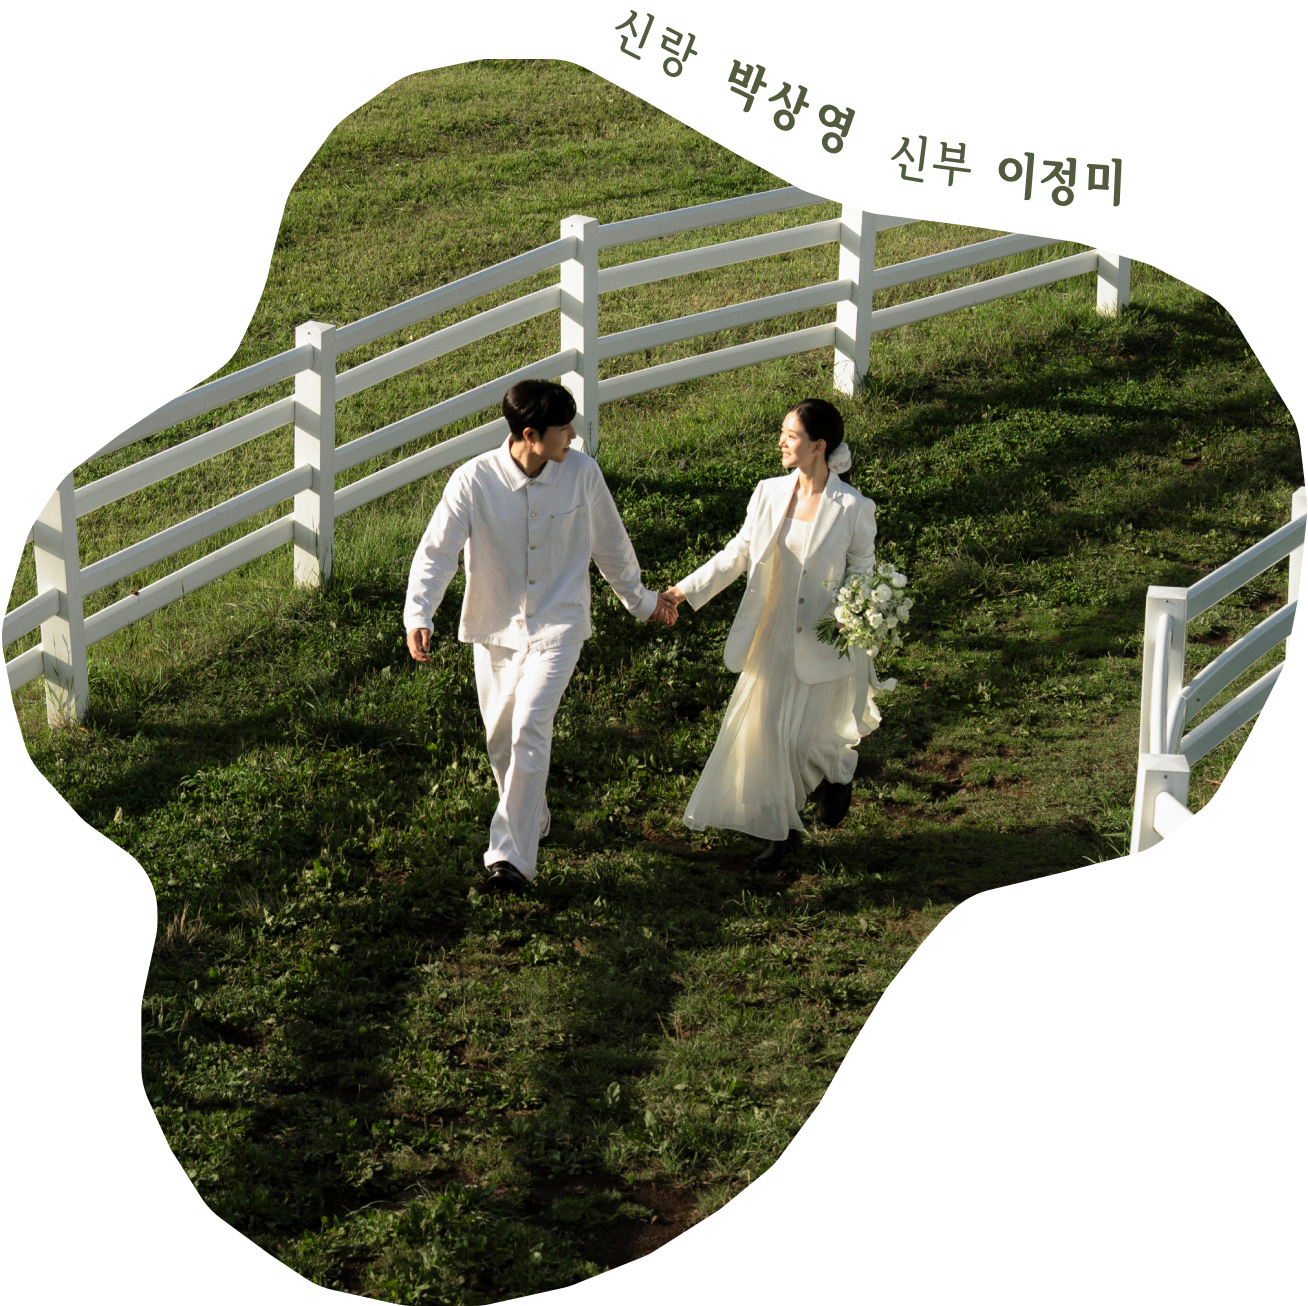
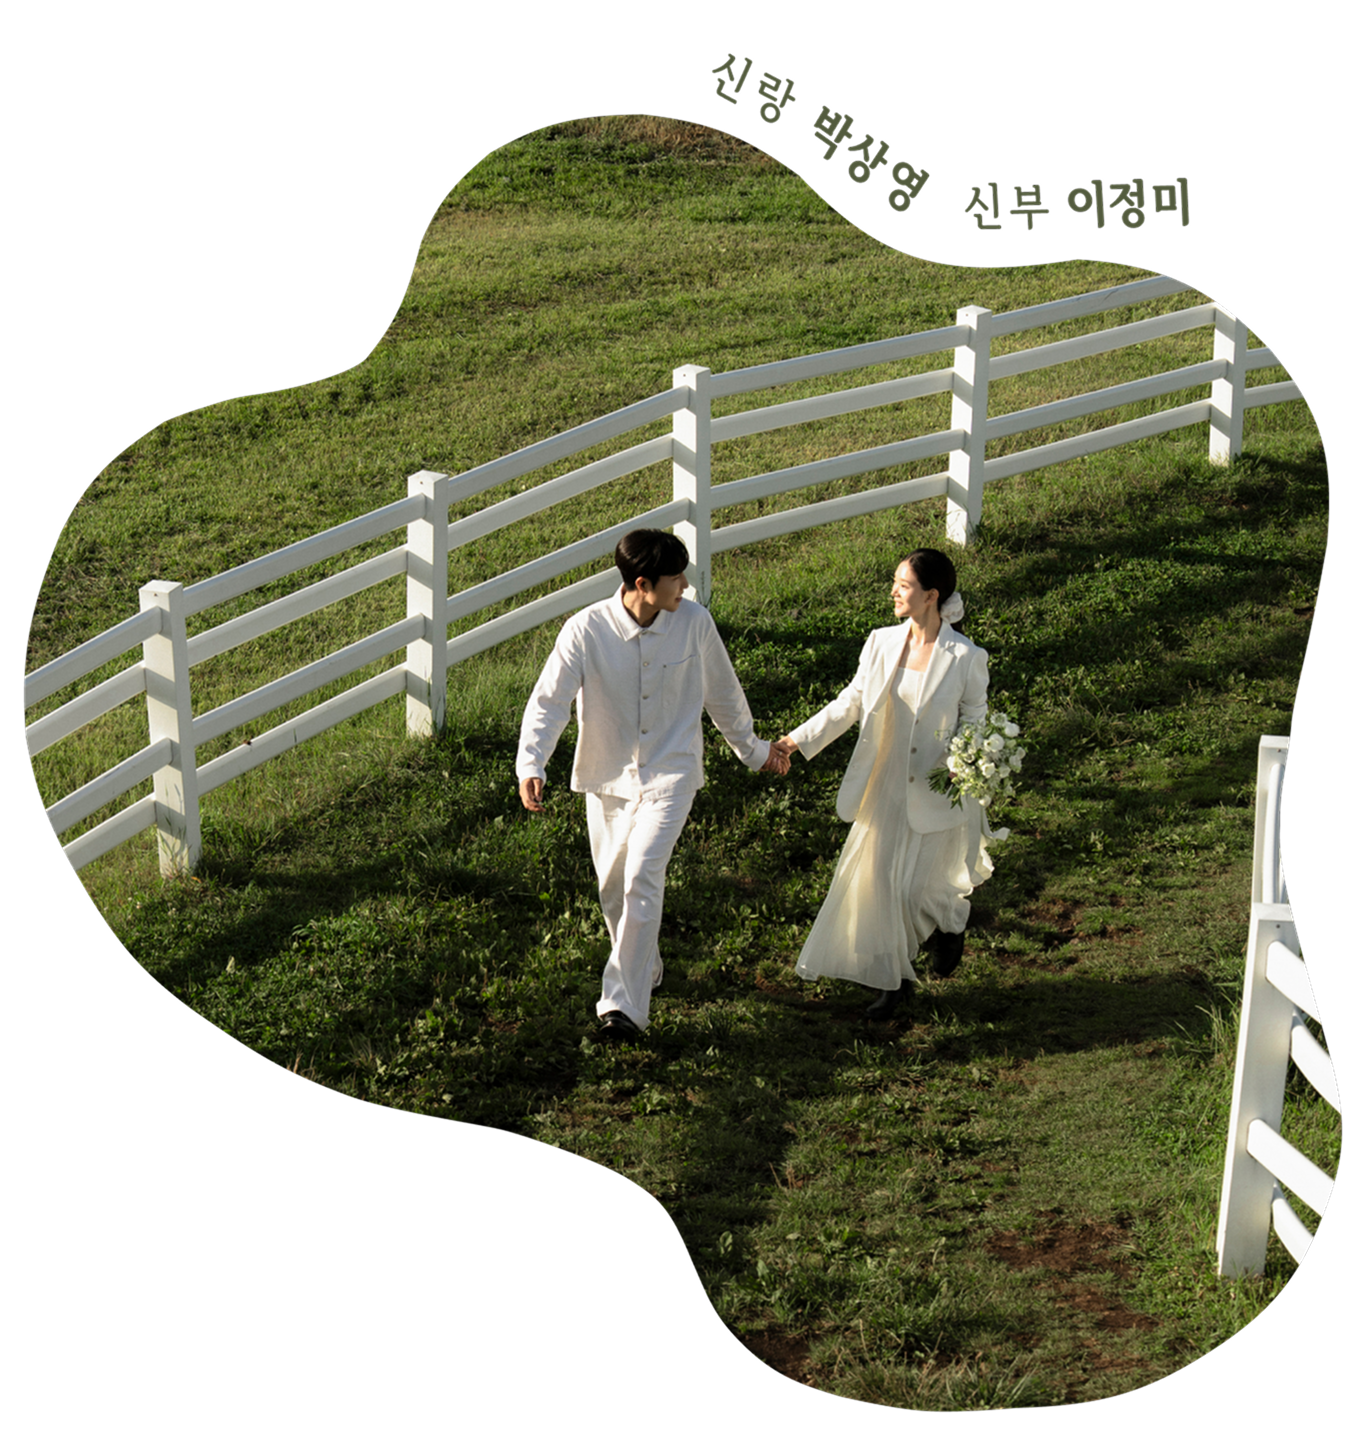
update css

diff --git a/src/App.scss b/src/App.scss
@@ -21,22 +21,10 @@
   --white-color: #ffffff;
 
   // check
-  // --theme-bg-color: #F3F2D9;
   --alt-color: #6f7757;
-  // --alt-bg-color: #f4f0f0;
-
-  // --dark-color: #282c34;
- 
-  // --light-grey-color: #eaeaea;
   --light-color: #F4EEE3;
-  
   --red-color: #ff0000;
 
-  // --dark-font-color: #626C46;
-  // --font-color:#535B3E;
-
-  // --point-color:#5D7F66;
-  // --blue-color: #B4CBD0;
 
   display: flex;
   justify-content: center;
@@ -55,8 +43,6 @@
 $colors: (
   theme-color: var(--theme-color),
   theme-bg-color: var(--theme-bg-color),
-  // alt-color: var(--alt-color),
-  // alt-bg-color: var(--alt-bg-color),
   dark-color: var(--dark-color),
   dark-grey-color: var(--dark-grey-color),
   light-grey-color: var(--light-grey-color),
@@ -184,6 +170,7 @@ body {
             animation-name: lazy-fade-in;
             animation-duration: 3s;
             opacity: 1;
+            padding: 2rem;
           }
 
           @media print {
@@ -222,7 +209,7 @@ h2 {
   color: var(--font-color);
   font-weight: normal;
   &.english {
-    font-family: "Allura";
+    // font-family: "Allura";
   }
 }
 

diff --git a/src/component/location/index.tsx b/src/component/location/index.tsx
@@ -9,11 +9,11 @@ export const Location = () => {
   return (
     <>
       <LazyDiv className="card location">
-        <h3>오시는길</h3>
+        <h3>오시는길</h3><br/>
         <div className="addr">
-          {LOCATION}
-          <div className="detail">{LOCATION_ADDRESS}</div>
-        </div>
+          {LOCATION}<br/>
+          {LOCATION_ADDRESS}
+        </div><br/>
         <div className="image-wrapper">
           <img src={MAP} alt="sample" />
         </div>
@@ -62,8 +62,8 @@ export const Location = () => {
             ▪만차 시 발렛으로 외부 주차 (2시간 30분 무료)
             <br />
             <br />
-            <div className="added">예식 후 출차 시 웨딩홀 입구에서 셔틀버스 탑승 후</div>
-            <div className="added">외부 주차장으로 이동 (5분 소요)</div>
+            <div className="added">예식 후 출차 시 웨딩홀 입구에서 셔틀버스 탑승 후<br/>
+            외부 주차장으로 이동 (5분 소요)</div>
           </div>
         </div>
         <div className="hr" />

diff --git a/src/component/location/index.scss b/src/component/location/index.scss
@@ -1,17 +1,15 @@
 .location {
-  // height: 100vh; /* 화면 전체 높이 */
 
   h3{
-    font-size: 1.6rem;
+    font-size: 1.5rem;
     color: var(--head-font-color);
   }
 
   .addr {
-    line-height: 2;
+    line-height: 1.4;
     margin-bottom: 1rem;
     color: var(--point-font-color);
     font-size: 1rem;
-    // font-weight: bold;
   }
 
   .image-wrapper > img{
@@ -76,14 +74,14 @@
     }
 
     .heading {
-      font-size: 1.2rem;
+      font-size: 1.1rem;
       font-weight: bold;
       // opacity: 0.7;
       color: var(--normal-font-color);
     }
 
     .content {
-      font-size: 1rem;
+      font-size: 0.9rem;
       line-height: 1.6;
       color: var(--normal-font-color);
 
@@ -92,8 +90,9 @@
       }
     }
     .added{
-      font-size: 1rem;
+      font-size: 0.9rem;
       opacity: 0.7;
+      line-height: 1.4;
     }
   }
 }

diff --git a/src/component/cover/index.scss b/src/component/cover/index.scss
@@ -1,22 +1,24 @@
 .cover {
   box-sizing: border-box !important;
-  padding-top: 100px !important;
+  // padding-top: 100px !important;
   color: var(--head-font-color);
+  height: 100vh;
+
   .info {
     margin-top: 0.3rem;
     font-weight: 700;
-    font-size: 1.4rem;
+    font-size: 1.3rem;
   }
 
   .image-wrapper {
-    padding: 50px 0;;
+    padding: 5rem 0;
     width: 100%;
     height: 30rem;
     display: block;
     overflow: hidden;
     align-items: center;
     img {
-      width: 90%;
+      width: 100%;
       height: auto;
       z-index: 1
     }

diff --git a/src/component/invitation/index.scss b/src/component/invitation/index.scss
@@ -1,7 +1,7 @@
 .invitation {
 
   h3{
-    font-size: 1.6rem;
+    font-size: 1.5rem;
     color: var(--head-font-color);
   }
 
@@ -30,7 +30,7 @@
     font-weight: 500;
     margin-top: 0.2rem;
     margin-bottom: 0.2rem;
-    font-size: 1.2rem;
+    font-size: 1.1rem;
   }
 
   .name-wrapper{

diff --git a/src/component/shareButton/index.tsx b/src/component/shareButton/index.tsx
@@ -15,7 +15,7 @@ const baseUrl = import.meta.env.BASE_URL
 export const ShareButton = () => {
   const kakao = useKakao()
   return (
-    <LazyDiv className="footer share-button">
+    <LazyDiv className="share-button">
       <button
         className="ktalk-share"
         onClick={() => {

diff --git a/src/component/calendar/index.tsx b/src/component/calendar/index.tsx
@@ -42,6 +42,7 @@ export const Calendar = () => {
     <LazyDiv className="card calendar">
       <h3 className="english">결혼합니다</h3>
       <div className="break" />
+      <div className="break" />
       <div className="date">
         {WEDDING_DATE.format("MM")}
       </div>

diff --git a/src/component/shareButton/index.scss b/src/component/shareButton/index.scss
@@ -1,7 +1,8 @@
 .share-button {
+  padding: 2rem 1rem;
 
   button{
-    box-shadow: 0 0 0.2rem 0 rgba(0, 0, 0, 0.2);
+    // box-shadow: 0 0 0.2rem 0 rgba(0, 0, 0, 0.2);
     // box-sizing: border-box;
     padding: 15px 100px;
     border-radius: 10px;

diff --git a/src/component/calendar/index.scss b/src/component/calendar/index.scss
@@ -1,11 +1,11 @@
 .calendar {
   h3{
-    font-size: 1.6rem;
+    font-size: 1.5rem;
     color: var(--head-font-color);
   }
   .date{
     font-weight: bold;
-    font-size: 1.4rem;
+    font-size: 1.3rem;
     color: var(--point-font-color);
   }
 

diff --git a/src/component/gallery/index.scss b/src/component/gallery/index.scss
@@ -14,7 +14,7 @@ $transition-duration: 0.3s;
 .gallery {
   
   h3{
-    font-size: 1.6rem;
+    font-size: 1.5rem;
     color: var(--head-font-color);
   }
 

diff --git a/src/component/information/index.scss b/src/component/information/index.scss
@@ -1,7 +1,7 @@
 .information {
   
   h3{
-    font-size: 1.6rem;
+    font-size: 1.5rem;
     color: var(--head-font-color);
   }
 
